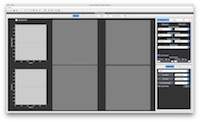
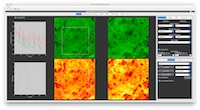
changed Launcher picutre opactiy

diff --git a/Launcher.m b/Launcher.m
@@ -12,6 +12,12 @@ Look=UserValues.Look;
 
 ImageFolderPath = [PathToApp filesep 'images' filesep 'Launcher' filesep];
 if isempty(hfig)
+    %%% set fontsize
+    fontSize = 45;
+    %%% set opacity of images
+    opacity = 0.4;
+    %%% set color of text
+    color = 'rgb(0,0,0)';
     %%% find screen size
     r = groot;
     screensize = r.ScreenSize;
@@ -49,81 +55,91 @@ if isempty(hfig)
         'BackgroundColor','white',...
         'Units','normalized',...
         'Position',[0.05,0.05,0.9,0.9],...
+        'String',['<html><font color="' color '"><b>PAM</b></font></html>'],...
+        'FontSize',fontSize,...
         'Callback',@LaunchPam);
-    iconbutton(h.PAM_button,[ImageFolderPath 'Pam.jpg']);
+    iconbutton(h.PAM_button,[ImageFolderPath 'Pam.jpg'],opacity);
     
     h.BurstBrowser_button = uicontrol(...
         'Parent',h.button_container,...
         'BackgroundColor','white',...
         'Units','normalized',...
+        'String',['<html><center><font color="' color '"><b>Burst<br>Browser</b></font></center></html>'],...
+        'FontSize',fontSize,...
         'Position',[0.05,0.05,0.9,0.9],...
         'Callback',@LaunchBurstBrowser);
-    iconbutton(h.BurstBrowser_button,[ImageFolderPath 'BurstBrowser.jpg']);
+    iconbutton(h.BurstBrowser_button,[ImageFolderPath 'BurstBrowser.jpg'],opacity);
     
     h.FCSFit_button = uicontrol(...
         'Parent',h.button_container,...
         'BackgroundColor','white',...
         'Units','normalized',...
+        'String',['<html><font color="' color '"><b>FCSFit</b></font></html>'],...
+        'FontSize',fontSize,...
         'Position',[0.05,0.05,0.9,0.9],...
         'Callback',@FCSFit);
-    iconbutton(h.FCSFit_button,[ImageFolderPath 'FCSFit.jpg']);
+    iconbutton(h.FCSFit_button,[ImageFolderPath 'FCSFit.jpg'],opacity);
     
     h.MIA_button = uicontrol(...
         'Parent',h.button_container,...
         'BackgroundColor','white',...
         'Units','normalized',...
+        'String',['<html><font color="' color '"><b>MIA</b></font></html>'],...
+        'FontSize',fontSize,...
         'Position',[0.05,0.05,0.9,0.9],...
         'Callback',@Mia);
-    iconbutton(h.MIA_button,[ImageFolderPath 'MIA.jpg']);
+    iconbutton(h.MIA_button,[ImageFolderPath 'MIA.jpg'],opacity);
     
     h.MIAFit_button = uicontrol(...
         'Parent',h.button_container,...
         'BackgroundColor','white',...
         'Units','normalized',...
+        'String',['<html><font color="' color '"><b>MIAFit</b></font></html>'],...
+        'FontSize',fontSize,...
         'Position',[0.05,0.05,0.9,0.9],...
         'Callback',@MIAFit);
-    iconbutton(h.MIAFit_button,[ImageFolderPath 'MIAFit.jpg']);
+    iconbutton(h.MIAFit_button,[ImageFolderPath 'MIAFit.jpg'],opacity);
     
     h.Phasor_button = uicontrol(...
         'Parent',h.button_container,...
         'BackgroundColor','white',...
         'Units','normalized',...
+        'String',['<html><font color="' color '"><b>Phasor</b></font></html>'],...
+        'FontSize',fontSize,...
         'Position',[0.05,0.05,0.9,0.9],...
         'Callback',@Phasor);
-    iconbutton(h.Phasor_button,[ImageFolderPath 'Phasor.jpg']);
+    iconbutton(h.Phasor_button,[ImageFolderPath 'Phasor.jpg'],opacity);
     
-%     h.PCF_button = uicontrol(...
-%         'Parent',h.button_container,...
-%         'BackgroundColor','white',...
-%         'Units','normalized',...
-%         'Position',[0.05,0.05,0.9,0.9],...
-%         'Callback',@PCFAnalysis);
-%     iconbutton(h.PCF_button,'images/Launcher/PCF.jpg');
-
     h.TauFit_button = uicontrol(...
         'Parent',h.button_container,...
         'BackgroundColor','white',...
         'Units','normalized',...
+        'String',['<html><font color="' color '"><b>TauFit</b></font></html>'],...
+        'FontSize',fontSize,...
         'Position',[0.05,0.05,0.9,0.9],...
         'Callback',@LaunchTauFit,...
         'Tag','TauFit_Launcher');
-    iconbutton(h.TauFit_button,[ImageFolderPath 'TauFit.jpg']);
+    iconbutton(h.TauFit_button,[ImageFolderPath 'TauFit.jpg'],opacity);
     
     h.Sim_button = uicontrol(...
         'Parent',h.button_container,...
         'BackgroundColor','white',...
         'Units','normalized',...
+        'String',['<html><font color="' color '"><b>Sim</b></font></html>'],...
+        'FontSize',fontSize,...
         'Position',[0.05,0.05,0.9,0.9],...
         'Callback',@Sim);
-    iconbutton(h.Sim_button,[ImageFolderPath 'Sim.jpg']);
+    iconbutton(h.Sim_button,[ImageFolderPath 'Sim.jpg'],opacity);
     
     h.Doc_button = uicontrol(...
         'Parent',h.button_container,...
         'Units','normalized',...
         'BackgroundColor','white',...
+        'String',['<html><font color="' color '"><b>Manual</b></font></html>'],...
+        'FontSize',fontSize,...
         'Position',[0.05,0.05,0.9,0.9],...
         'Callback',@Open_Doc);
-    iconbutton(h.Doc_button,[ImageFolderPath 'Doc.jpg']);
+    iconbutton(h.Doc_button,[ImageFolderPath 'Doc.jpg'],opacity);
     
     h.Launcher.Visible = 'on';
 else

diff --git a/functions/GUI/iconbutton.m b/functions/GUI/iconbutton.m
@@ -1,5 +1,8 @@
-function iconbutton(hBut,imgFile)
+function iconbutton(hBut,imgFile,opacity)
 %%% plots scaled image on button
+if nargin < 3
+    opacity = 1;
+end
 [a,~]=imread(imgFile);
 dim = size(a); img_hei = dim(1); img_wid = dim(2);
 hBut.Units = 'pixels'; drawnow;
@@ -17,5 +20,6 @@ img = uint8(ones(hei+2,wid+2,3));
 idx_wid = floor((wid+2-size(a,2))/2)+(1:size(a,2));
 idx_hei = floor((hei+2-size(a,1))/2)+(1:size(a,1));
 img(idx_hei,idx_wid,:) = a;
+img = opacity.*img + (1-opacity)*255;
 set(hBut,'CData',img);
 hBut.Units = 'normalized';
